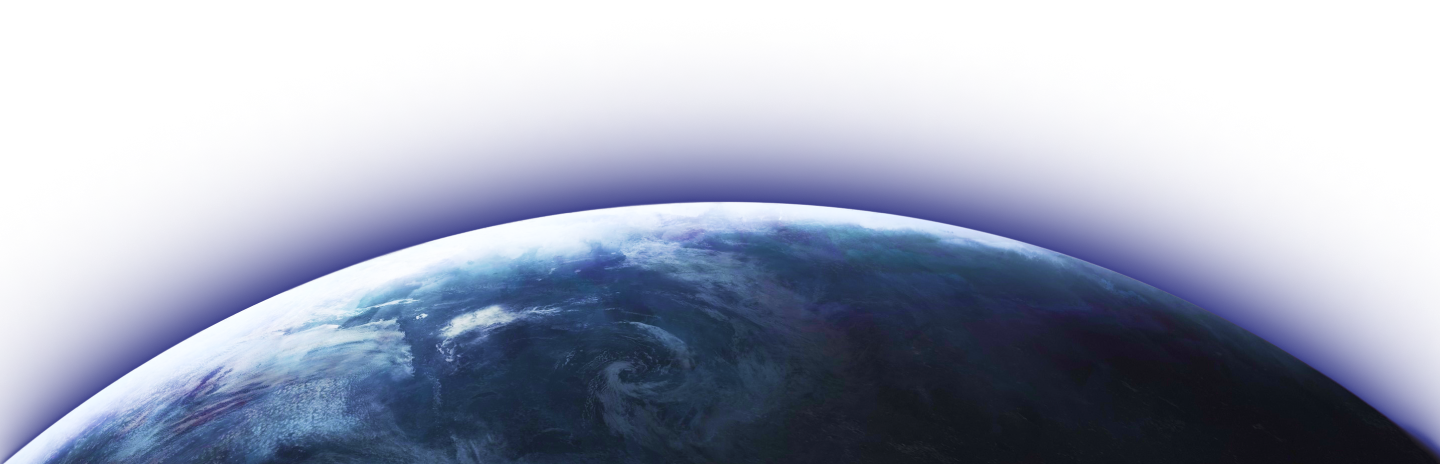
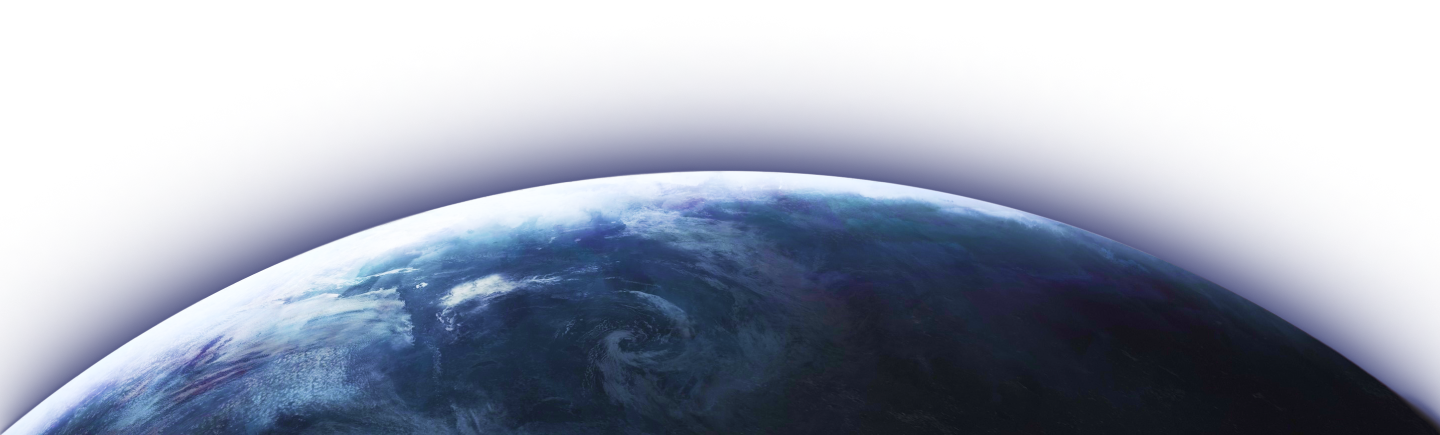
changed earth & moon w & h

diff --git a/styles.css b/styles.css
@@ -14,10 +14,20 @@ body {
   height: auto;
 }
 
+.earth {
+  position: absolute;
+  bottom: 0;
+  width: 100vw;
+  height: 50vh;
+  z-index: 200;
+}
+
 .moon {
   position: absolute;
-  top: 5rem;
-  left: 5rem;
+  width:150px;
+  height:150px;
+  top: 1rem;
+  left: 1rem;
 }
 
 .verse {
@@ -53,11 +63,4 @@ body {
 p {
   color: white;
   font-family: "Inter", sans-serif;
-}
-
-.earth {
-  position: absolute;
-  bottom: 0;
-  width: 100vw;
-  z-index: 200;
 }
